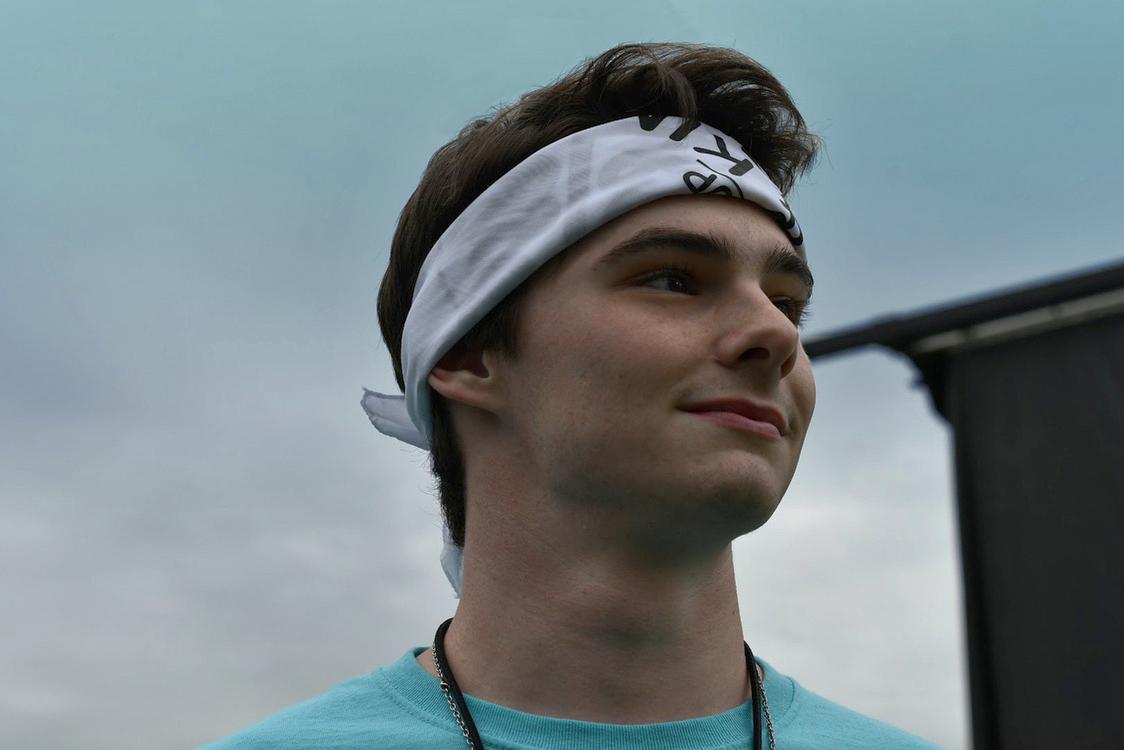
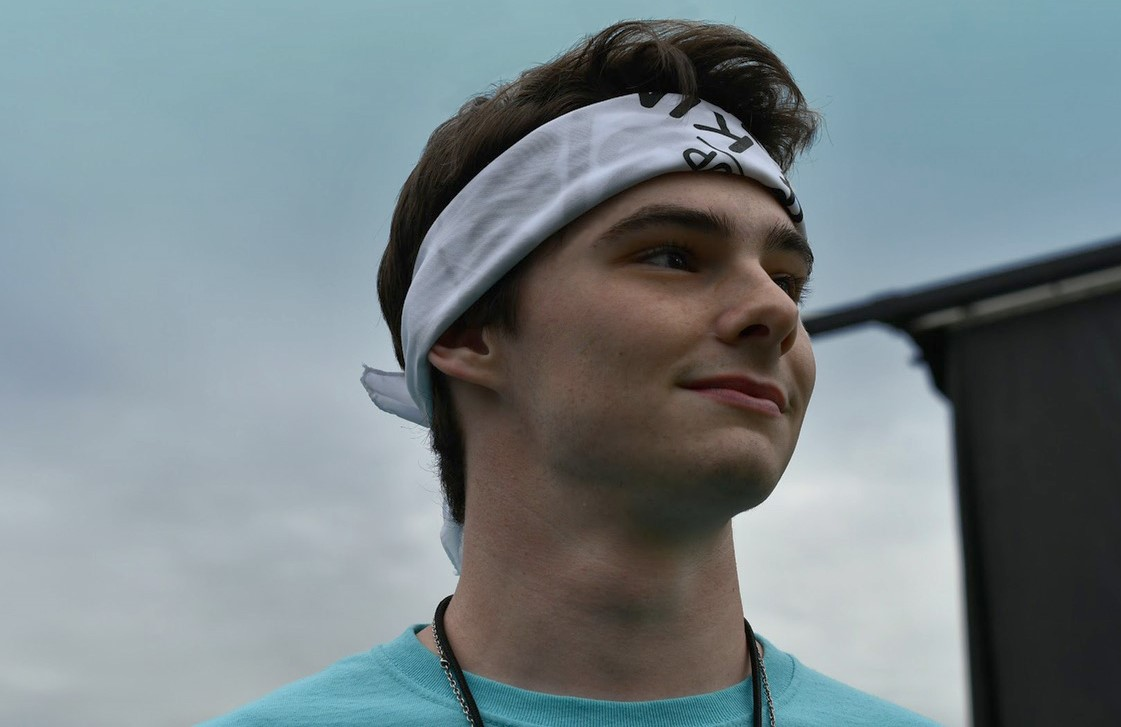
more changes

diff --git a/style/site.css b/style/site.css
@@ -5,8 +5,8 @@ body {
 
 /* Set padding to keep content from hitting the edges */
 .body-content {
-    padding-left: 15px;
-    padding-right: 15px;
+    padding-left: 0px;
+    padding-right: 0px;
 }
 
 /* Override the default bootstrap behavior where horizontal description lists 
@@ -66,13 +66,6 @@ textarea {
 .spotify_social:hover {
     color: #1DB954;
     transform: translateY(-20px);
-}
-
-.my_head_image {
-    position:fixed;
-    top:3px;
-    height: 50px;
-    width: auto;
 }
 
 .my_footer_image {
@@ -356,116 +349,3 @@ textarea {
 
 
 
-/* Navbar container */
-.navbar {
-    overflow: hidden;
-    background-color: #333232;
-    font-family: Arial;
-    position: fixed;
-    top: 0px;
-    left: 0px;
-    width: 100%;
-    height: 60px;
-  }
-  
-  /* Links inside the navbar */
-  .navbar a {
-    float: left;
-    font-size: 16px;
-    color: rgb(150, 150, 150);
-    text-align: center;
-    padding-left: 20px;
-    padding-right: 20px;
-    padding-top: 22px;
-    text-decoration: none;
-    height: inherit;
-  }
-  
-
-  /* Add a red background color to navbar links on hover */
-  .navbar a:hover {
-    color: white;
-  }
-   /* Add a red background color to navbar links on hover */
-  .navbar a.active {
-    background-color: #55ACEE;
-    color: white;
-  }
-
- /* The dropdown container */
-.dropdown {
-    float: left;
-    overflow: hidden;
-    position: fixed;
-    top: 0px;
-    z-index: 1;
-    font-size: 18px;
-  }
-  
-  /* Dropdown button */
-  .dropdown .dropbtn {
-    font-size: 16px;    
-    border: none;
-    outline: none;
-    color: rgb(150, 150, 150);;
-    text-align: center;
-    padding-left: 20px;
-    padding-right: 20px;
-    padding-top: 22px;
-    background-color: inherit;
-    font-family: inherit; /* Important for vertical align on mobile phones */
-    margin: 0; /* Important for vertical align on mobile phones */
-  }
-  
- 
-  
-  /* Dropdown content (hidden by default) */
-  .dropdown-content {
-    display: none;
-    background-color: #f9f9f9;
-    min-width: 160px;
-    box-shadow: 0px 8px 16px 0px rgba(0,0,0,0.2);
-    z-index: 1;
-  }
-  
-  /* Links inside the dropdown */
-  .dropdown-content a {
-    float: none;
-    color: rgb(150, 150, 150);
-    background-color: #333232;
-    padding: 12px 16px;
-    text-decoration: none;
-    display: block;
-    text-align: left;
-  }
-  
-  /* Add a grey background color to dropdown links on hover */
-  .dropdown-content a:hover {
-    color: white;
-  }
-  
-  /* Show the dropdown menu on hover */
-  .dropdown:hover .dropdown-content {
-    display: block;
-  }
-
-  .dropdown a.active {
-    background-color: #55ACEE;
-    color: white;
-  }
-  
-
-  @media (min-width: 730px) {
-      .dropdown{
-          display: none;
-      }
-  }
-
-  @media (max-width: 730px) {
-      .navbar a{
-          display: none;
-      }
-      .my_head_image {
-          display: none;
-      }
-  }

diff --git a/style/headerStyle.css b/style/headerStyle.css
@@ -1,0 +1,121 @@
+/* Navbar container */
+.navbar {
+    overflow: hidden;
+    background-color: #333232;
+    font-family: Arial;
+    position: fixed;
+    top: 0px;
+    left: 0px;
+    width: 100%;
+    height: 60px;
+  }
+  
+  /* Links inside the navbar */
+  .navbar a {
+    float: left;
+    font-size: 16px;
+    color: rgb(150, 150, 150);
+    text-align: center;
+    padding-left: 20px;
+    padding-right: 20px;
+    padding-top: 22px;
+    text-decoration: none;
+    height: inherit;
+  }
+  
+
+  /* Add a red background color to navbar links on hover */
+  .navbar a:hover {
+    color: white;
+  }
+   /* Add a red background color to navbar links on hover */
+  .navbar a.active {
+    background-color: #55ACEE;
+    color: white;
+  }
+
+ /* The dropdown container */
+.dropdown {
+    float: left;
+    overflow: hidden;
+    position: fixed;
+    top: 0px;
+    z-index: 1;
+    font-size: 18px;
+  }
+  
+  /* Dropdown button */
+  .dropdown .dropbtn {
+    font-size: 16px;    
+    border: none;
+    outline: none;
+    color: rgb(150, 150, 150);;
+    text-align: center;
+    padding-left: 20px;
+    padding-right: 20px;
+    padding-top: 22px;
+    background-color: inherit;
+    font-family: inherit; /* Important for vertical align on mobile phones */
+    margin: 0; /* Important for vertical align on mobile phones */
+  }
+  
+ 
+  
+  /* Dropdown content (hidden by default) */
+  .dropdown-content {
+    display: none;
+    background-color: #f9f9f9;
+    min-width: 160px;
+    box-shadow: 0px 8px 16px 0px rgba(0,0,0,0.2);
+    z-index: 1;
+  }
+  
+  /* Links inside the dropdown */
+  .dropdown-content a {
+    float: none;
+    color: rgb(150, 150, 150);
+    background-color: #333232;
+    padding: 12px 16px;
+    text-decoration: none;
+    display: block;
+    text-align: left;
+  }
+  
+  /* Add a grey background color to dropdown links on hover */
+  .dropdown-content a:hover {
+    color: white;
+  }
+  
+  /* Show the dropdown menu on hover */
+  .dropdown:hover .dropdown-content {
+    display: block;
+  }
+
+  .dropdown a.active {
+    background-color: #55ACEE;
+    color: white;
+  }
+  
+
+  @media (min-width: 730px) {
+      .dropdown{
+          display: none;
+      }
+  }
+
+  @media (max-width: 730px) {
+      .navbar a{
+          display: none;
+      }
+      .my_head_image {
+          display: none;
+      }
+  }
+
+
+  .my_head_image {
+    position:fixed;
+    top:3px;
+    height: 50px;
+    width: auto;
+}

diff --git a/index.html b/index.html
@@ -33,6 +33,45 @@
         <a href="views/test.html">Skills & Achievements</a>
         <a href="views/test.html">Contact</a>
     </div>
+    <link rel="stylesheet" type="text/css" href="style/headerStyle.css">
+    <!-- HEADER CODE -->
+
+    <!--BODY CODE-->
+    <link rel="stylesheet" type="text/css" href="style/indexStyle.css">
+
+    <!-- <div class="background_image_overlay">
+        <div class="index_title_div">
+            <h1 class="index_title">Connor Bartal</h1>
+            <hr>
+            <h1>
+                <span class="typer" id="typ" data-words="student,programmer,developer,cyber-security, mathematics"
+                    style="padding-left:50px; font-family:Helvetica; font-weight: lighter;" data-delay="100"
+                    data-deleteDelay="1000" data-colors="#292F33"></span>
+                <span class="cursor" style="color:#292F33; font-family:Helvetica; font-weight: lighter;"
+                    data-owner="typ"></span>
+            </h1>
+            <script async src="https://unpkg.com/typer-dot-js@0.1.0/typer.js"></script>
+        </div>
+    </div> -->
+
+    <div>
+        <div class="background_image_overlay">
+            <div class="index_title_div">
+                <h1 class="index_title">Connor Bartal</h1>
+                <hr>
+                <h1>
+                    <span class="typer" id="typ" data-words="student,programmer,developer,cyber-security, mathematics"
+                        style="padding-left:50px; font-family:Helvetica; font-weight: lighter;" data-delay="100"
+                        data-deleteDelay="1000" data-colors="#292F33"></span>
+                    <span class="cursor" style="color:#292F33; font-family:Helvetica; font-weight: lighter;"
+                        data-owner="typ"></span>
+                </h1>
+                <script async src="https://unpkg.com/typer-dot-js@0.1.0/typer.js"></script>
+            </div>
+        </div>
+        <img src="content/SoundfestMeEdited.jpg" class="background_image" />
+    </div>
+
 
 </body>
 

diff --git a/style/indexStyle.css b/style/indexStyle.css
@@ -1,0 +1,37 @@
+.background_image {
+    width: 100%;
+    height: auto;
+    position: fixed;
+    left: 0;
+}
+
+.background_image_overlay {
+    width: 100%;
+    height: 100%;
+    position: fixed;
+    left: 0;
+    background-color:rgba(85, 172, 238, .3);
+    z-index: 1;
+}
+
+.index_title_div {
+    position: absolute;
+    top: 30%;
+    left: 3%;
+
+}
+
+.index_title {
+    font-family: Helvetica;
+    font-weight: lighter;
+    color:white; 
+    font-size:80px; 
+    text-shadow:1px 1px 15px #000;
+    margin: 0px;
+}
+
+@media (max-width: 400px) {
+    .index_title {
+        width: auto;
+    }
+}
